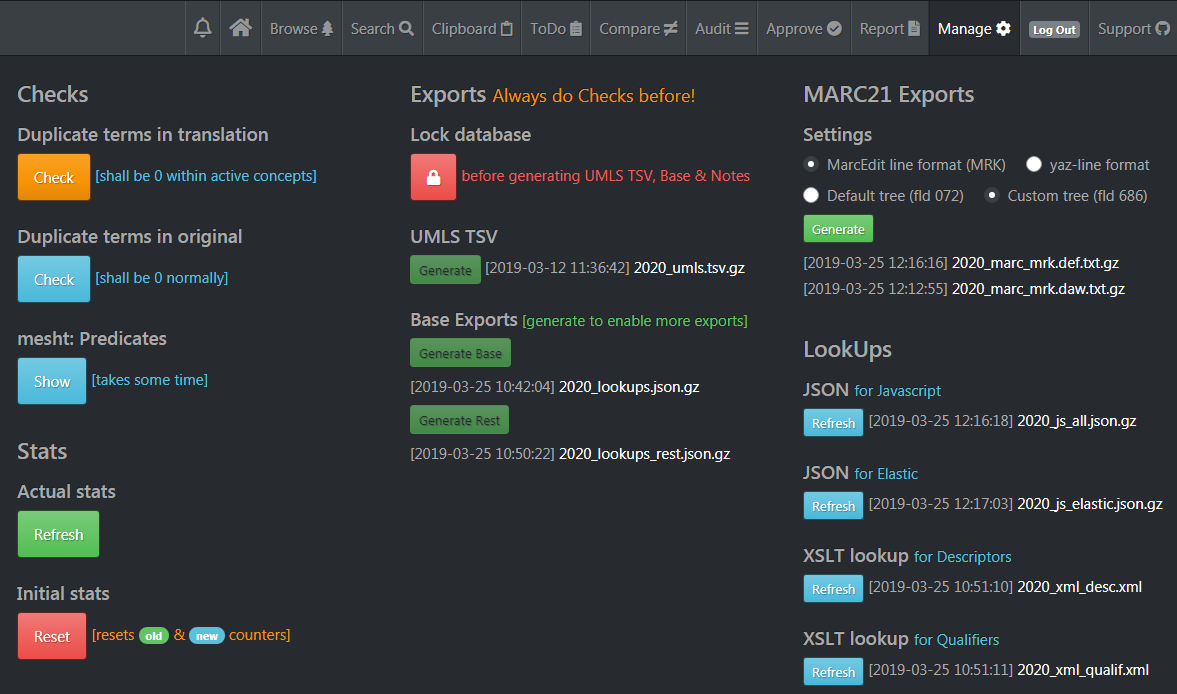
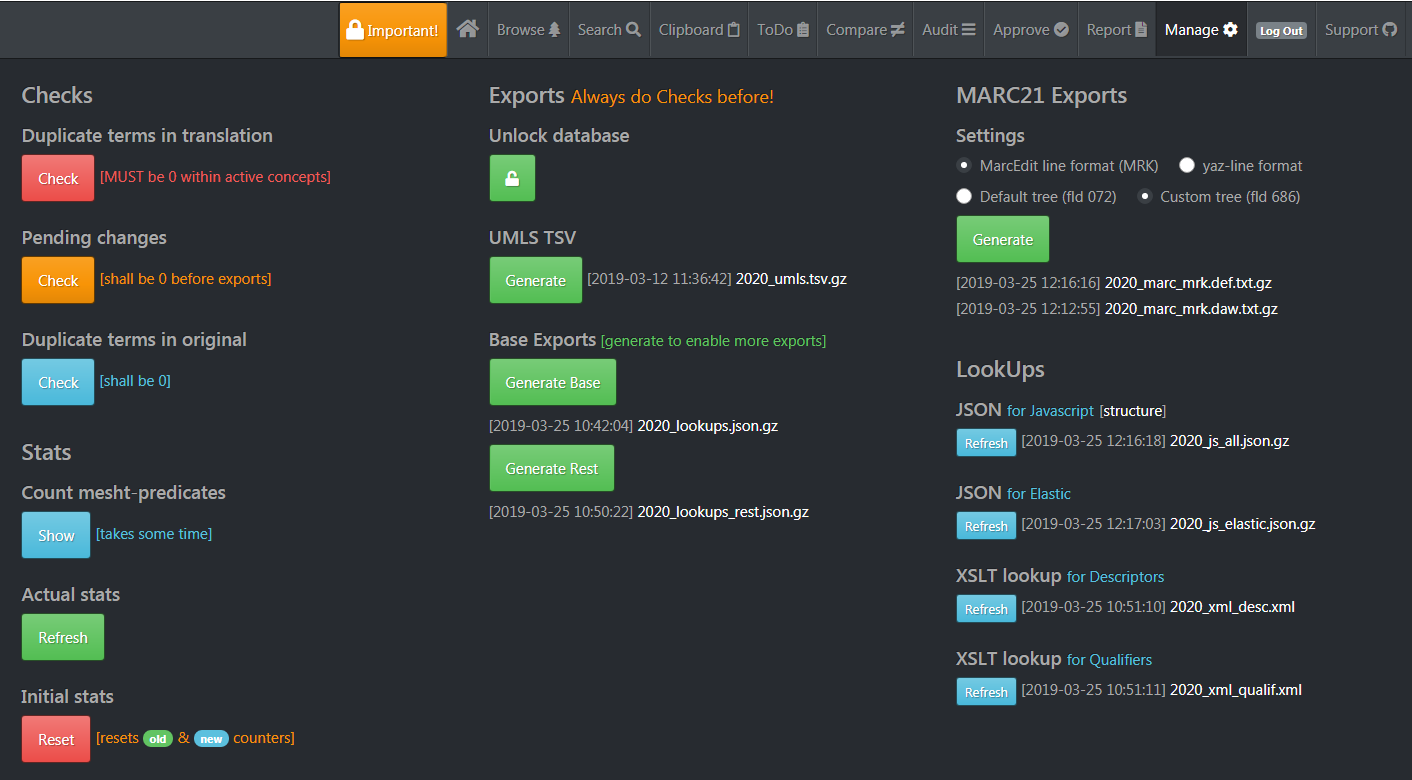
Manage page cleaning

diff --git a/flask-app/mtw/templates/manage.html b/flask-app/mtw/templates/manage.html
@@ -33,10 +33,20 @@ Manage
     <div class="row mb-4">
       <div class="col">
         <h5>Duplicate terms in translation</h5>
-            <a href="{{ url_for('todo', tlist='duplicates') }}" class="btn btn-warning" role="button">
+            <a href="{{ url_for('todo', tlist='duplicates') }}" class="btn btn-danger" role="button">
               Check
             </a>
-            <span class="text-info">[shall be 0 within active concepts]</span>
+            <span class="text-danger">[MUST be 0 within active concepts]</span>
+      </div>
+    </div>
+
+    <div class="row mb-4">
+      <div class="col">
+        <h5>Pending changes</h5>
+            <a href="{{ url_for('approve', status='pending') }}" class="btn btn-warning" role="button">
+              Check
+            </a>
+            <span class="text-warning">[shall be 0 before exports]</span>
       </div>
     </div>
 
@@ -46,17 +56,7 @@ Manage
             <a href="{{ url_for('todo', tlist='duplicates_eng') }}" class="btn btn-info" role="button">
               Check
             </a>
-            <span class="text-info">[shall be 0 normally]</span>
-      </div>
-    </div>
-
-    <div class="row mb-4">
-      <div class="col">
-        <h5>mesht: Predicates</h5>
-            <a href="{{ url_for('todo', tlist='mesht_predicates') }}" class="btn btn-info" role="button">
-              Show
-            </a>
-            <span class="text-info">[takes some time]</span>
+            <span class="text-info">[shall be 0]</span>
       </div>
     </div>
 
@@ -65,10 +65,20 @@ Manage
       <li class="list-inline-item float-right">
       </li>
     </ul>
+    
+    <div class="row mb-4">
+      <div class="col">
+        <h5>Count mesht-predicates</h5>
+            <a href="{{ url_for('todo', tlist='mesht_predicates') }}" class="btn btn-info" role="button">
+              Show
+            </a>
+            <span class="text-info">[takes some time]</span>
+      </div>
+    </div>
 
     <div class="row mb-4">
       <div class="col">
-        <h5>Actual stats </h5>
+        <h5>Actual stats</h5>
           <form action="{{ url_for('update_stats', stat='actual') }}" method="post">
             <input type="hidden" name="_csrf_token" value="{{ csrf_token() }}">
             <button class="btn btn-success" type="submit" title="Update Actual stats">
@@ -80,7 +90,7 @@ Manage
 
     <div class="row mb-4">
       <div class="col">
-        <h5>Initial stats </h5>
+        <h5>Initial stats</h5>
           <form action="{{ url_for('update_stats', stat='initial') }}" method="post">
             <input type="hidden" name="_csrf_token" value="{{ csrf_token() }}">
             <button class="btn btn-danger" type="submit" title="Update Initial stats">
@@ -120,7 +130,7 @@ Manage
           <button class="btn btn-danger" data-toggle="modal" data-target="#showMessage" title="Lock database">
             <i class="fas fa-lock"></i>
           </button>
-          <span class="text-danger">before generating UMLS TSV, Base &amp; Notes</span>
+          <span class="text-danger">before generating UMLS TSV &amp; Base exports</span>
 
 {% endif %}
 
@@ -136,7 +146,7 @@ Manage
         <h5>UMLS TSV</h5>
           <form action="{{ url_for('update_stats', stat='umls') }}" method="post">
             <input type="hidden" name="_csrf_token" value="{{ csrf_token() }}">
-            <button class="btn btn-sm btn-success" type="submit" title="Create UMLS Export (TSV)" {{ export_disabled }}>
+            <button class="btn btn-success" type="submit" title="Create UMLS Export (TSV)" {{ export_disabled }}>
               Generate
                 </button>
 
@@ -157,7 +167,7 @@ Manage
         <h5>Base Exports<small class="text-success"> [generate to enable more exports]</small></h5>
           <form action="{{ url_for('update_stats', stat='lookups') }}" method="post">
             <input type="hidden" name="_csrf_token" value="{{ csrf_token() }}">
-            <button class="btn btn-sm btn-success mb-2" type="submit" title="Create Base-export file (JSON)" {{ export_disabled }}>
+            <button class="btn btn-success mb-2" type="submit" title="Create Base-export file (JSON)" {{ export_disabled }}>
               Generate Base
                 </button>
 
@@ -175,7 +185,7 @@ Manage
 
           <form action="{{ url_for('update_stats', stat='lookups_rest') }}" method="post">
             <input type="hidden" name="_csrf_token" value="{{ csrf_token() }}">
-            <button class="btn btn-sm btn-success mb-2" type="submit" title="Create Base-rest file (JSON)" {{ export_disabled }}>
+            <button class="btn btn-success mb-2" type="submit" title="Create Base-rest file (JSON)" {{ export_disabled }}>
               Generate Rest
                 </button>
 
@@ -249,7 +259,7 @@ Manage
               </div>
             </div>
 
-            <button class="btn btn-sm btn-success mb-2" type="submit" title="Create MARC file (TXT)">
+            <button class="btn btn-success mb-2" type="submit" title="Create MARC file (TXT)">
               Generate
             </button>
 
